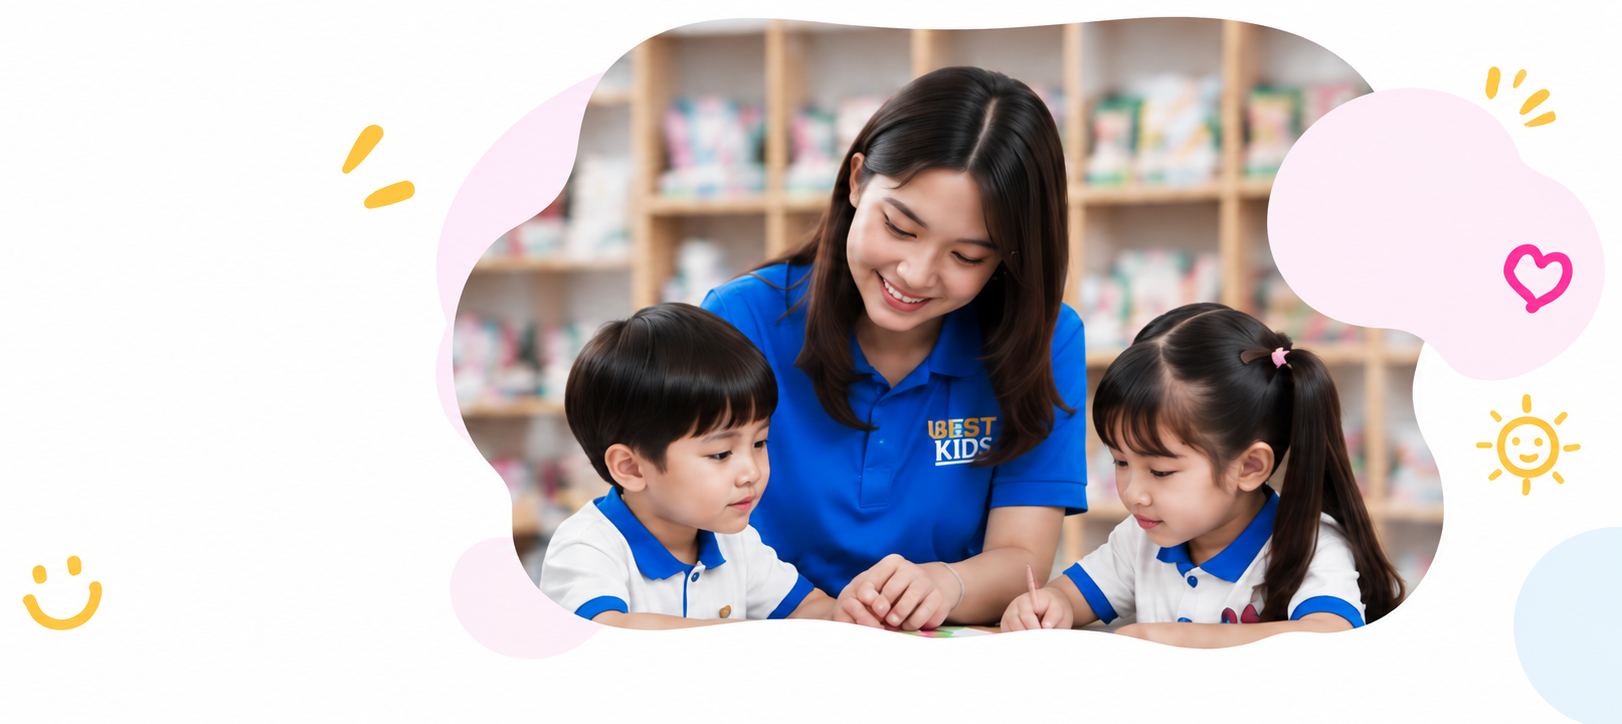
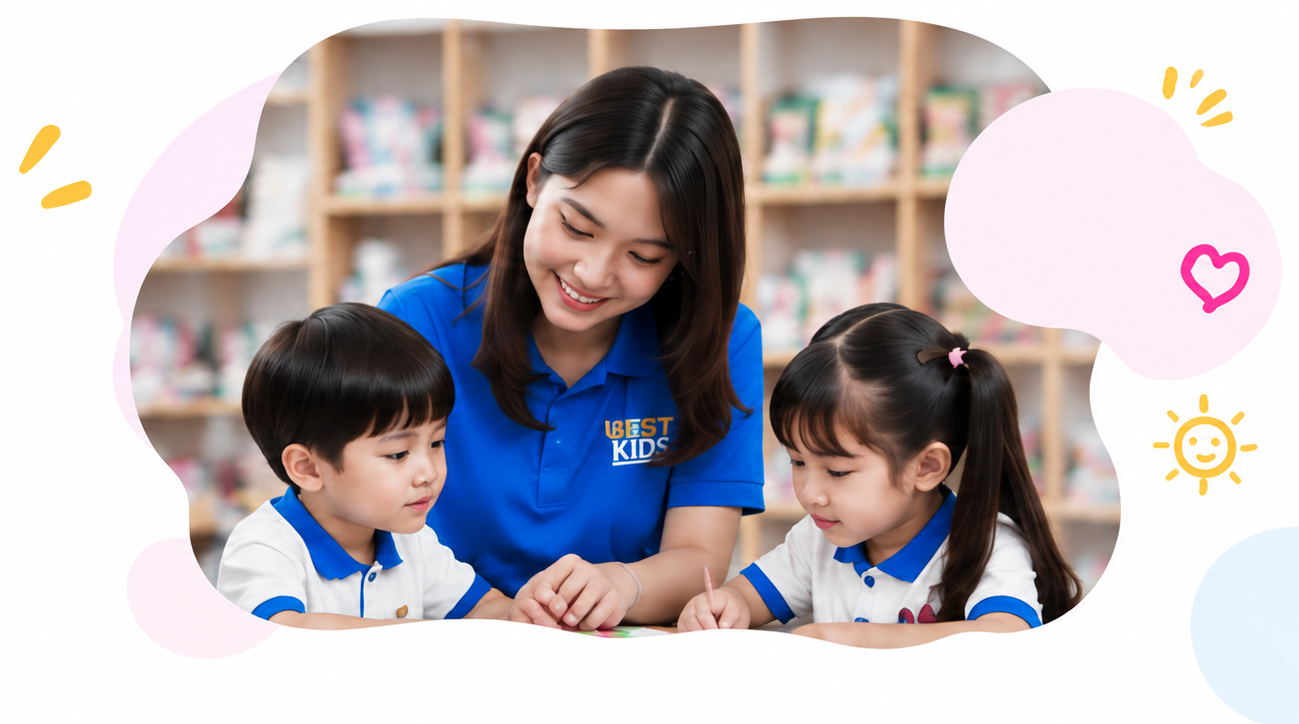
Finaliasi draft yang akan dipresentasikan ke client.

diff --git a/css/style.css b/css/style.css
@@ -8,8 +8,7 @@
   --pink: #D74675;
   --orange: #E89743;
   --green: #71AB53;
-  --purple: #6D4BD8;
-  --bg-main: #e7e7b8;
+  --bg-main: #fffde0;
   
   /* Latar Soft Pastel Turunan */
   --bg-pink-light: #FDF0F4;
@@ -191,7 +190,7 @@ img {
   right: 0;
   width: 100%;
   z-index: 9999; /* Memastikan header berada di atas seluruh elemen */
-  background-color: #EFEDD6;
+  background-color: #fffde0;
   backdrop-filter: blur(8px);
   box-shadow: 0 4px 20px rgba(0, 0, 0, 0.06);
   transition: all 0.3s ease;
@@ -211,7 +210,7 @@ body {
 }
 
 .logo {
-  width: 72px;
+  width: 76px;
   height: auto;
 }
 
@@ -692,6 +691,25 @@ body {
   display: grid;
   grid-template-columns: repeat(3, 1fr);
   gap: 18px;
+}
+
+/* Responsif Layar Tablet dan HP */
+@media (max-width: 992px) {
+  .testimonial-grid {
+    grid-template-columns: repeat(2, 1fr);
+  }
+}
+
+@media (max-width: 640px) {
+  .testimonial-grid {
+    grid-template-columns: 1fr;
+  }
+
+  .section-header-flex {
+    flex-direction: column;
+    align-items: flex-start;
+    gap: 12px;
+  }
 }
 
 .testimonial {
@@ -1302,7 +1320,7 @@ body {
    HERO TENTANG KAMI (FULL IMAGE STYLE)
    ========================================== */
 .hero-about {
-  background-color: #FFFFFF;
+  background-color: none;
   padding: 40px 0 60px 0;
 }
 
@@ -1314,8 +1332,8 @@ body {
 }
 
 /* Typography & Titles */
-.hero-title-lg .navy {
-  color: var(--navy), #2B59C3;
+.hero-title-lg .navy { 
+  color: var(--navy), #FF2A85; 
 }
 .hero-title-lg .navy {
   color: var(--navy), #FF2A85;
@@ -2210,7 +2228,7 @@ body {
    PAGE KONTAK (EXACT MOCKUP DESIGN)
    ========================================== */
 .contact-page-wrapper {
-  background-color: #FFFFFF;
+  background-color: none;
   position: relative;
   overflow: hidden;
   padding-bottom: 80px;
@@ -2837,6 +2855,7 @@ body {
   .pricing-cards-grid, .info-list { grid-template-columns: 1fr; }
   .level-title-row { justify-content: center; }
   .speech-bubble { position: static; margin: 0 auto 15px; }
+  .hero-bubble { display: none; }
   .checklist-pink li { text-align: left; }
   .section { padding: 55px 0; }
 }
@@ -3339,26 +3358,6 @@ body {
   margin-top: 10px !important;
 }
 
-/* ==========================================
-   OVERRIDE COLOR SYSTEM (DITAMBAHKAN)
-   ========================================== */
-:root {
-  --blue: #4DB1D3;
-  --pink: #D74675;
-  --orange: #E89743;
-  --green: #71AB53;
-  --bg-main: #F6F5E4;
-
-  /* Latar Soft Pastel Turunan */
-  --bg-pink-light: #FDF0F4;
-  --bg-blue-light: #F0F9FC;
-  --bg-orange-light: #FDF5ED;
-  --bg-green-light: #F2F7F0;
-
-  --text-dark: #2D3748;
-  --text-muted: #64748B;
-}
-
 /* Background Utama Halaman */
 body {
   background-color: var(--bg-main);
@@ -3413,7 +3412,7 @@ body {
 .bg-blue-light { background-color: var(--bg-blue-light); }
 .bg-yellow-light, .bg-orange-light { background-color: var(--bg-orange-light); }
 .bg-green-light { background-color: var(--bg-green-light); }
-.bg-purple-light { background-color: #F7F0FA; }
+/* .bg-purple-light sengaja TIDAK di-override agar warna purple asli tetap dipertahankan */
 
 /* ==========================================
    SECTION OWNER & FOUNDER

diff --git a/galeri.html b/galeri.html
@@ -58,7 +58,7 @@
         <!-- Item 1 -->
         <article class="gallery-card" data-category="belajar">
           <div class="gallery-img-wrapper">
-            <img src="assets/detail-kids.png" alt="Belajar Calistung Interaktif" loading="lazy">
+            <img src="galeri\20260730_165914.jpg" alt="Belajar Calistung Interaktif" loading="lazy">
             <span class="gallery-tag tag-pink">Kegiatan Belajar</span>
           </div>
           <div class="gallery-info">
@@ -70,7 +70,7 @@
         <!-- Item 2 -->
         <article class="gallery-card" data-category="event">
           <div class="gallery-img-wrapper">
-            <img src="assets/about-kids.png" alt="Lomba Mewarnai" loading="lazy">
+            <img src="galeri\20260810_151708.jpg" alt="Lomba Mewarnai" loading="lazy">
             <span class="gallery-tag tag-yellow">Event & Lomba</span>
           </div>
           <div class="gallery-info">
@@ -82,7 +82,7 @@
         <!-- Item 3 -->
         <article class="gallery-card" data-category="belajar">
           <div class="gallery-img-wrapper">
-            <img src="assets/hero-kids.png" alt="Sesi Phonics Games" loading="lazy">
+            <img src="galeri\20260822_094831.jpg" alt="Sesi Phonics Games" loading="lazy">
             <span class="gallery-tag tag-blue">Kegiatan Belajar</span>
           </div>
           <div class="gallery-info">
@@ -94,7 +94,7 @@
         <!-- Item 4 -->
         <article class="gallery-card" data-category="fasilitas">
           <div class="gallery-img-wrapper">
-            <img src="assets/level-pintar1.png" alt="Ruang Kelas Semi Private" loading="lazy">
+            <img src="galeri\20260826_130400.jpg" alt="Ruang Kelas Semi Private" loading="lazy">
             <span class="gallery-tag tag-green">Fasilitas Kelas</span>
           </div>
           <div class="gallery-info">
@@ -106,7 +106,7 @@
         <!-- Item 5 -->
         <article class="gallery-card" data-category="karya">
           <div class="gallery-img-wrapper">
-            <img src="assets/program-matematika.png" alt="Hasil Karya Menulis" loading="lazy">
+            <img src="galeri\IMG_0793.HEIC.jpg" alt="Hasil Karya Menulis" loading="lazy">
             <span class="gallery-tag tag-purple">Hasil Karya</span>
           </div>
           <div class="gallery-info">
@@ -118,7 +118,7 @@
         <!-- Item 6 -->
         <article class="gallery-card" data-category="event">
           <div class="gallery-img-wrapper">
-            <img src="assets/cta-anak-perempuan.png" alt="Pentas Seni Best Kids" loading="lazy">
+            <img src="galeri\IMG_0812.HEIC.jpg" alt="Pentas Seni Best Kids" loading="lazy">
             <span class="gallery-tag tag-pink">Event & Lomba</span>
           </div>
           <div class="gallery-info">

diff --git a/js/script.js b/js/script.js
@@ -1,8 +1,16 @@
 document.addEventListener('DOMContentLoaded',()=>{
-  const toggle=document.querySelector('.menu-toggle');
-  const links=document.querySelector('.nav-links');
-  if(toggle&&links) toggle.addEventListener('click',()=>links.classList.toggle('open'));
-  document.querySelectorAll('.nav-links a').forEach(a=>a.addEventListener('click',()=>links?.classList.remove('open')));
+  document.addEventListener('click',(e)=>{
+    const toggle=e.target.closest('.menu-toggle');
+    const links=document.querySelector('.nav-links');
+    if(toggle&&links){
+      links.classList.toggle('open');
+      return;
+    }
+    const navLink=e.target.closest('.nav-links a');
+    if(navLink&&links){
+      links.classList.remove('open');
+    }
+  });
   document.querySelectorAll('[data-filter]').forEach(btn=>btn.addEventListener('click',()=>{
     document.querySelectorAll('[data-filter]').forEach(x=>x.classList.remove('active'));btn.classList.add('active');
     const val=btn.dataset.filter;

diff --git a/index.html b/index.html
@@ -20,7 +20,7 @@
       <div class="container hero-grid">
         <div class="hero-text-side">
           <div class="eyebrow">⭐ Tempat Les Terbaik untuk Anak</div>
-          <h1>Belajar <span class="pink">Seru,</span><br><span class="yellow">Prestasi</span> <span class="green">Maju</span><br>bersama <span class="navy-title">BEST KIDS</span></h1>
+          <h1><span class="blue">Belajar</span> <span class="pink">Seru,</span><br><span class="yellow">Prestasi</span> <span class="green">Maju</span><br>bersama <span class="navy-title">BEST KIDS</span></h1>
           <p>Kami membantu anak-anak mengembangkan kemampuan membaca, menulis, berhitung, Bahasa Indonesia, dan Bahasa Inggris melalui pembelajaran yang menyenangkan, interaktif, dan didampingi guru profesional.</p>
           <div class="actions">
             <a class="btn btn-pink" href="kontak.html">Konsultasi Gratis →</a>

diff --git a/tentang-kami.html b/tentang-kami.html
@@ -30,8 +30,8 @@
         <div class="about-hero-grid">
           <!-- Kolom Teks (Kiri) -->
           <div class="about-hero-text">
-            <h1 class="page-title hero-title-lg">
-              <span class="blue">Tentang</span> <span class="pink">Kami</span>
+            <h1 class="page-title hero-title-lg text-navy">
+              Tentang Kami
               <span class="title-sparkle"></span>
             </h1>
             <p class="page-lead hero-desc">
